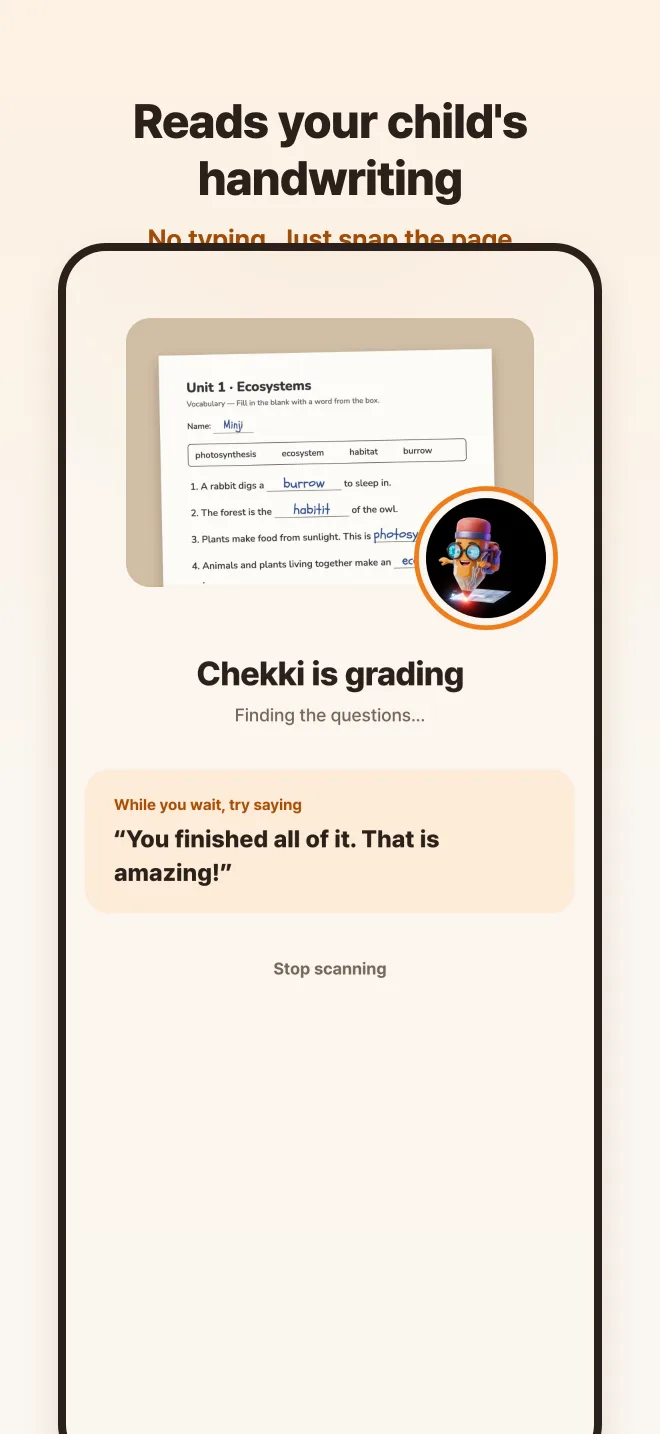
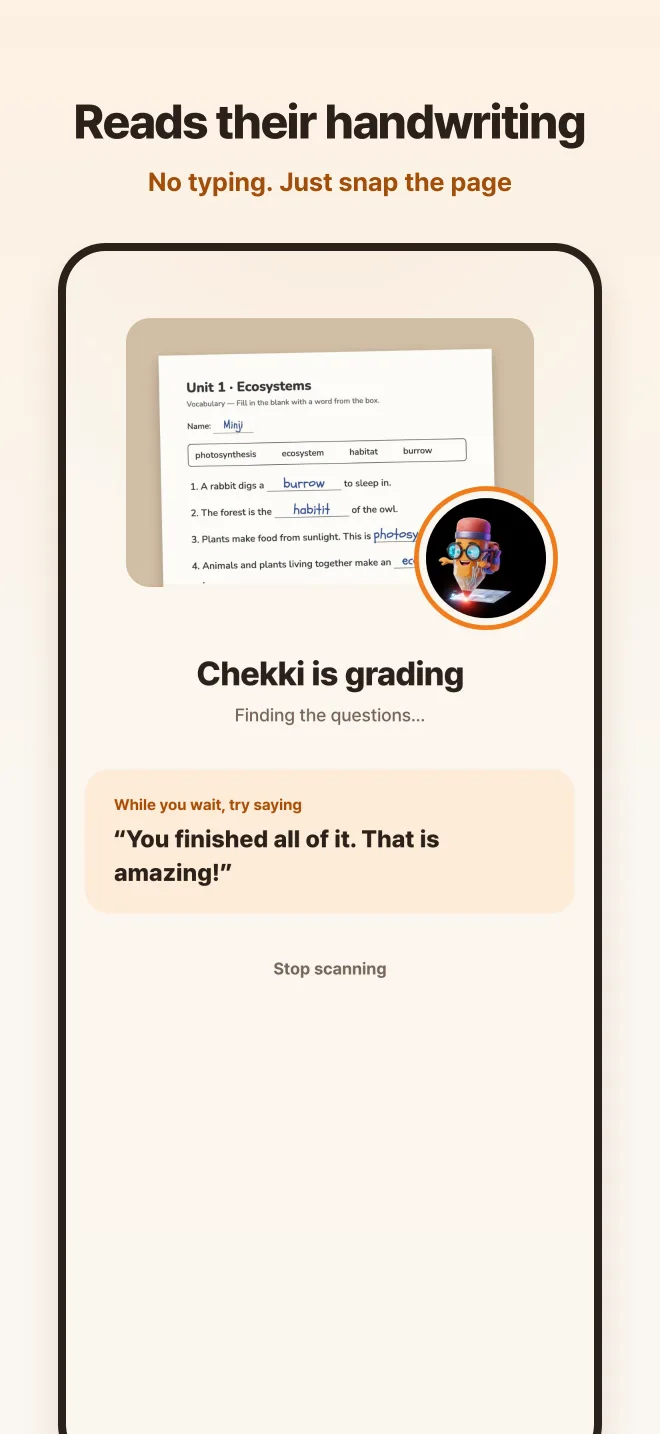
Add current landing shots and fix clipped captions in Chekki case study
Add the live chekkiai.com hero and pain-points sections (EN and KO) back
to the front of the gallery. Redraw the captions on the two English store
shots whose two-line titles ran into the phone frame, as one line each.

Changed region(s): [[0.0909, 0.0614, 0.9091, 0.1841]]

diff --git a/components/caseStudyData.ts b/components/caseStudyData.ts
@@ -292,10 +292,12 @@ Call B — feedback
     storeUrl: "https://urlgeni.us/chekki",
     walkthroughVideo: "https://embed.app.guidde.com/playbooks/rZZfcxwam9qFtSqgh3rRGw?mode=videoOnly",
     screenshots: [
+      { label: "Landing Page", url: "/screenshots/chekki-app/landing-hero-en.webp", subLabel: "Chekki Grades. You Praise." },
+      { label: "Pain Points Solved", url: "/screenshots/chekki-app/landing-pains-en.webp", subLabel: "Three Homework Problems Parents Name" },
       { label: "Home", url: "/screenshots/chekki-app/ios-en-5.webp", subLabel: "Scan Homework, Practice Queue & Academy Steps" },
       { label: "Graded Worksheet", url: "/screenshots/chekki-app/ios-en-2.webp", subLabel: "Answers Marked Right on the Page" },
       { label: "What to Say", url: "/screenshots/chekki-app/ios-en-1.webp", subLabel: "Every Miss Explained in Korean for the Parent" },
-      { label: "Grading", url: "/screenshots/chekki-app/ios-en-4.webp", subLabel: "Reads Handwriting, Suggests Praise While You Wait" },
+      { label: "Grading", url: "/screenshots/chekki-app/ios-en-4.webp", subLabel: "Reads Their Handwriting, Suggests Praise While You Wait" },
       { label: "Teacher's Class Report", url: "/screenshots/chekki-app/ios-en-3.webp", subLabel: "Written and Sent by the Korean Teacher" }
     ],
     stats: [
@@ -1611,6 +1613,8 @@ function scoreAssessment(answers) {
     storeUrl: "https://urlgeni.us/chekki",
     walkthroughVideo: "https://embed.app.guidde.com/playbooks/rZZfcxwam9qFtSqgh3rRGw?mode=videoOnly",
     screenshots: [
+      { label: "랜딩 페이지", url: "/screenshots/chekki-app/landing-hero-ko.webp", subLabel: "채점은 채키가, 칭찬은 엄마가" },
+      { label: "해결된 페인포인트", url: "/screenshots/chekki-app/landing-pains-ko.webp", subLabel: "학부모가 겪는 숙제 고민 세 가지" },
       { label: "홈화면", url: "/screenshots/chekki-app/ios-ko-5.webp", subLabel: "숙제 스캔, 복습 카드, 학원 단계" },
       { label: "채점 결과", url: "/screenshots/chekki-app/ios-ko-2.webp", subLabel: "페이지 위에 바로 표시되는 정답" },
       { label: "아이에게 할 말", url: "/screenshots/chekki-app/ios-ko-1.webp", subLabel: "틀린 문제마다 한국어 설명" },
